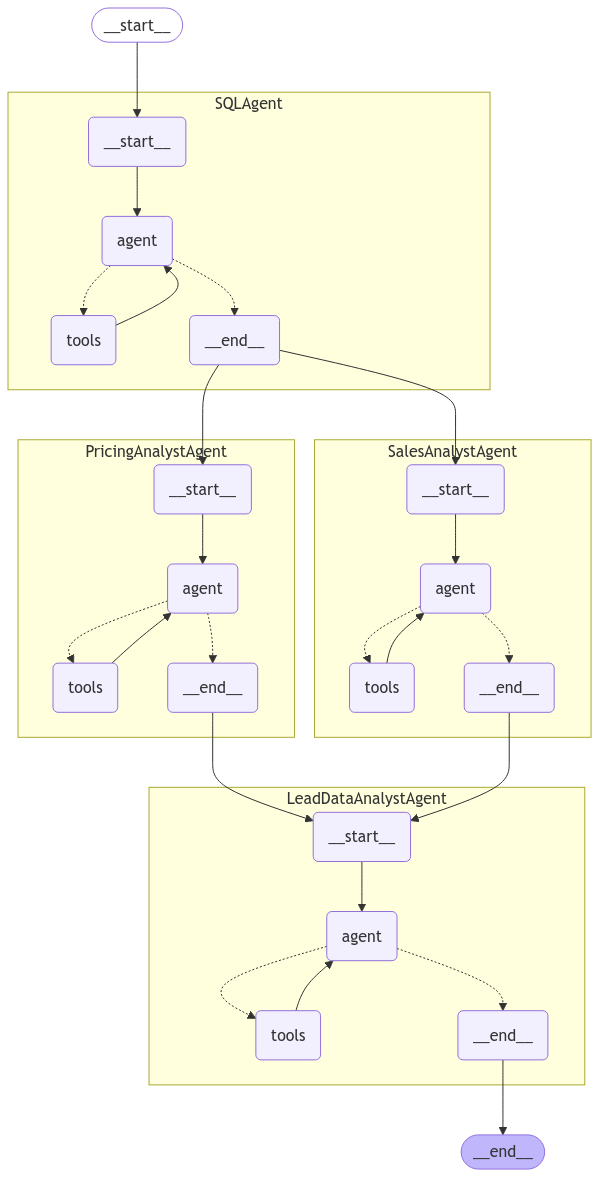
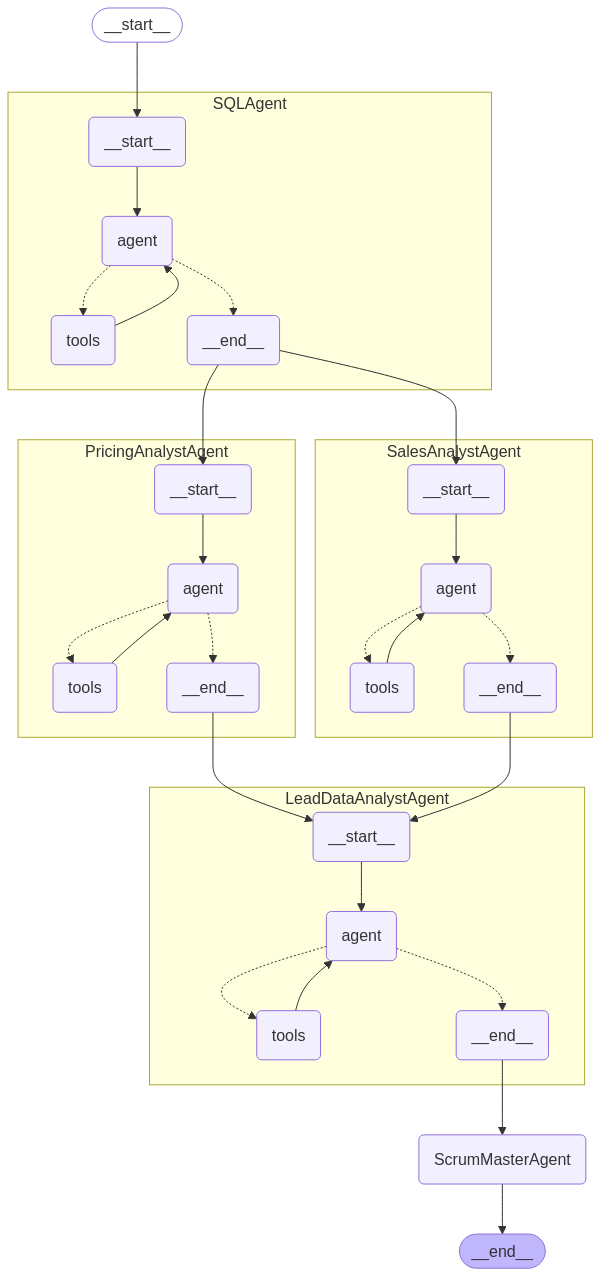
Adding the scrum master agent

Changed region(s): [[0.0, 0.0, 0.9917, 1.0]]

diff --git a/app.py b/app.py
@@ -12,6 +12,8 @@ from sqlalchemy import create_engine
 from dotenv import load_dotenv
 from typing import Annotated
 import operator
+from typing import Optional, List
+from pydantic import BaseModel, Field
 
 load_dotenv()
 
@@ -22,11 +24,11 @@ class State(TypedDict):
     question:  str
     sql_output: str
     pre_answer: Annotated[list, operator.add]
-    final_output: str
+    final_output: BaseModel
 
 
 # Create an SQLAlchemy engine instance for DuckDB
-engine = create_engine('duckdb:///sales_fake_project/seeds/project.db')
+engine = create_engine('duckdb:///dbt/seeds/project.db')
 
 # Initialize SQLDatabase with view_support enabled
 sql_database = SQLDatabase(engine=engine, view_support=True)
@@ -98,12 +100,41 @@ lead_data_prefix = (
     "Your role is to review the answers obtained from data queries and generate tasks that yield actionable insights. "
     "Analyze these responses, assess their feasibility, and recommend the most viable and impactful tasks to pursue. "
     "Focus solely on analyzing the provided context and recommending prioritized tasks—do not generate SQL queries here."
+    "The expected result is a list of task cards with the following structure: 1 for a junior data analyst, 1 for a mid-level data analyst, and 1 for a senior data analyst."
+    "The cards NEEDS to have the following structure: title, description and data_analyst_level"
 )
 lead_data_system_message = SystemMessage(content=lead_data_prefix)
 # Create the Lead Data Analyst agent (no extra tools needed)
 lead_data_agent = create_react_agent(model_3_5, tools=[math_tool], messages_modifier=lead_data_system_message)
 
+# Create the ScrumMasterAgent
+scrum_master_prefix = (
+    "You are a ScrumMasterAgent, an expert in Agile methodologies, team facilitation, and process improvement. "
+    "Your role is to review the team's progress, identify impediments, and recommend actions to improve productivity and efficiency. "
+    "Analyze the provided context and suggest prioritized tasks to enhance data analyst team collaboration and sprint success."
+    "Read the answer from the LeadDataAnalystAgent and generate new task cards: 1 for a junior data analyst, 1 for a mid-level data analyst, and 1 for a senior data analyst."
+)
 
+# structuring the message for the ScrumMasterAgent using structured_outputs
+class Task(BaseModel):
+    name: str = "Name"
+    title: str = Field(..., description="The title of the task")
+    description: Optional[str] = Field(
+        ..., description="Description of the task, what the task is about, what the data analysts expected to do"
+    )
+    data_analyst_level: List[str] = Field(
+        ..., description="The data analysts assigned to this task (junior, mid-level or senior)"
+        )
+
+class Tasks(BaseModel):
+    name: str = "Name"
+    tasks: List[Task]
+
+model_with_structured_output = model_3_5.with_structured_output(Tasks)
+
+scrum_master_system_message = SystemMessage(content=scrum_master_prefix)
+# Create the Scrum Master agent
+scrum_master_agent = create_react_agent(model_3_5, tools =[], messages_modifier=scrum_master_system_message)
 
 
 # Build the State Graph
@@ -179,21 +210,47 @@ def lead_data_analyst_agent_node(state: dict) -> dict:
     """
     # Prepare the message with the question and the accumulated final output.
     output = lead_data_agent.invoke({
-        "messages": [HumanMessage(content=f"Question: {state['question']}\n Pre-answers from Sales Analyst and Pricing Analyst: {state['pre_answer']}")]
+        "messages": [HumanMessage(content=f"""Question: {state['question']}
+                                  Pre-answers from Sales Analyst and Pricing Analyst: {state['pre_answer']}""")]
+    })
+    return {"pre_answer": [output]}
+
+
+
+def scrum_master_agent_node(state: dict) -> dict:
+    # Prepare the message with the question and the SQL output.
+    """
+    Invokes the ScrumMaster Agent by taking the original question and the accumulated final output from the Lead Data Analyst Agent,
+    then produces an updated final output with actionable insights.
+
+    Args:
+        state (dict): A dictionary containing 'question' and 'final_output' keys, where 'final_output'
+                      holds the previously accumulated output.
+
+    Returns:
+        dict: A dictionary containing the key 'final_output' with the updated insights from the ScrumMaster Agent.
+    """
+    output = scrum_master_agent.invoke({
+        "messages": [HumanMessage(content=f"Pre-answer from LeadDataAnalystAgent: {state['pre_answer'][-1]}")]
     })
     return {"final_output": output}
+
+
+
 
 builder.add_node("SQLAgent",sql_agent_node)
 builder.add_node("SalesAnalystAgent",sales_analyst_agent_node)
 builder.add_node("PricingAnalystAgent",pricing_analyst_agent_node)
 builder.add_node("LeadDataAnalystAgent",lead_data_analyst_agent_node)
+builder.add_node("ScrumMasterAgent",scrum_master_agent_node)
 
 builder.add_edge(START, "SQLAgent")
 builder.add_edge("SQLAgent", "SalesAnalystAgent")
 builder.add_edge("SQLAgent", "PricingAnalystAgent")
 builder.add_edge("PricingAnalystAgent", "LeadDataAnalystAgent")
 builder.add_edge("SalesAnalystAgent", "LeadDataAnalystAgent")
-builder.add_edge("LeadDataAnalystAgent", END)
+builder.add_edge("LeadDataAnalystAgent", "ScrumMasterAgent")
+builder.add_edge("ScrumMasterAgent", END)
 
 
 # Compile the state graph
